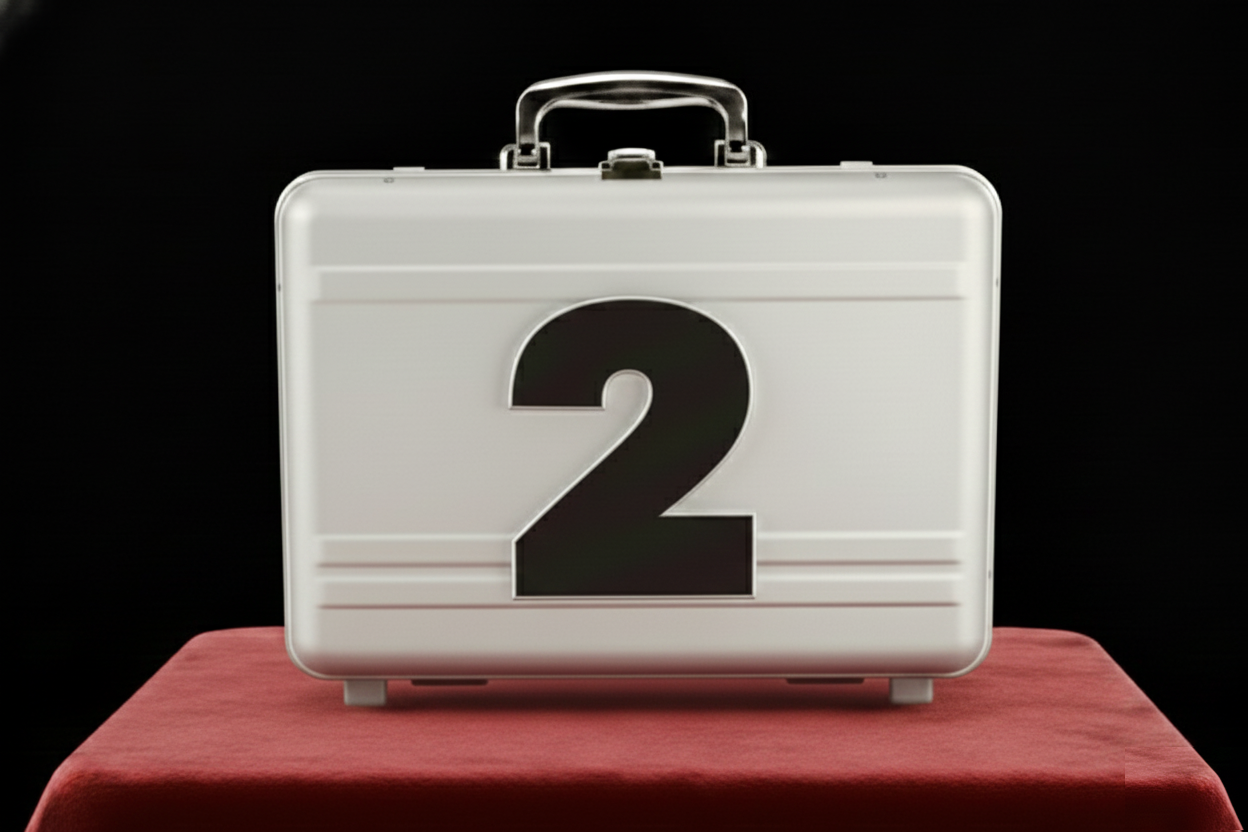
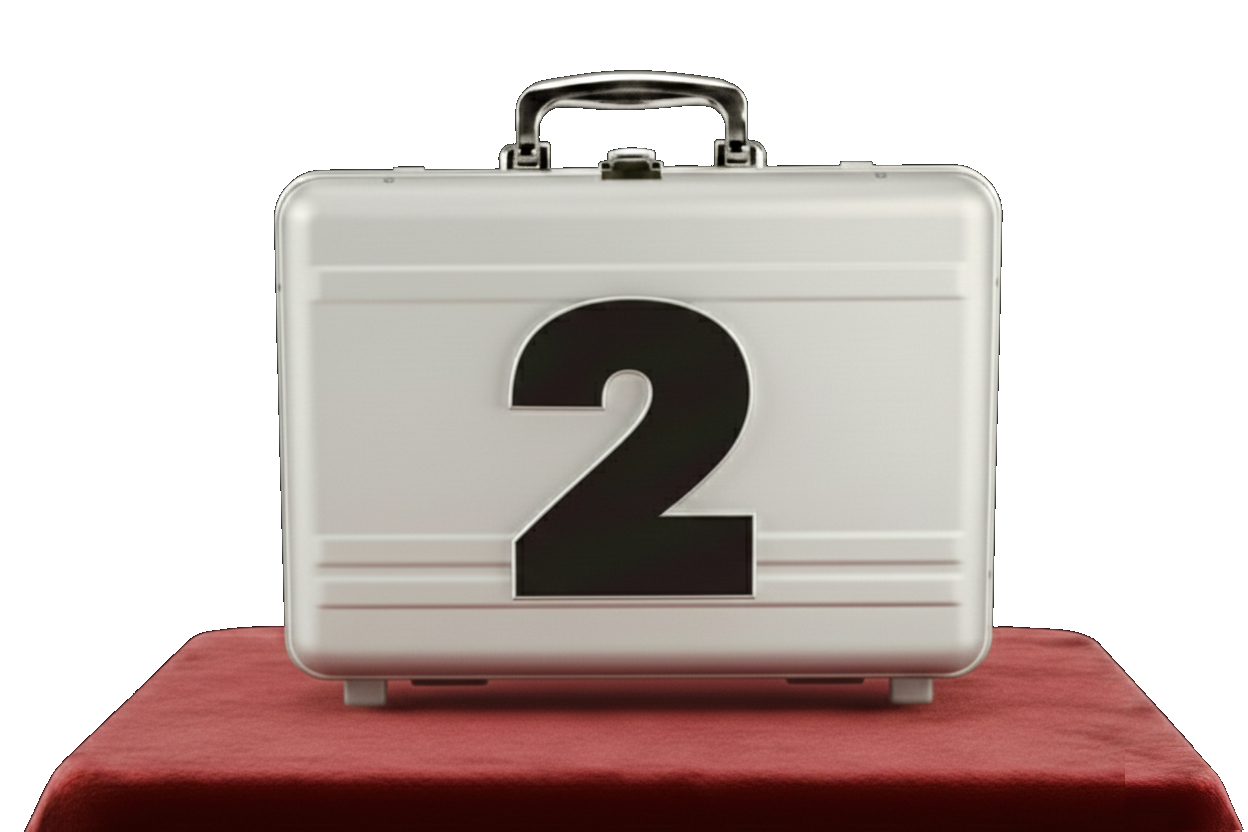
Update briefcase images and add player case display panel

diff --git a/src/GameScreen.tsx b/src/GameScreen.tsx
@@ -3,7 +3,6 @@ import './GameScreen.css'
 
 interface GameScreenProps {
   playerName: string
-  onReset: () => void
 }
 
 const LEFT_COLUMN_VALUES = [0.05, 1, 5, 10, 20, 50, 100, 125, 150, 200, 250]
@@ -21,7 +20,7 @@ interface Briefcase {
 
 const CASES_TO_OPEN_PER_ROUND = [6, 5, 4, 3, 2, 1]
 
-function GameScreen({ playerName, onReset }: GameScreenProps) {
+function GameScreen({ playerName }: GameScreenProps) {
   const [briefcases, setBriefcases] = useState<Briefcase[]>([])
   const [gamePhase, setGamePhase] = useState<GamePhase>('SELECT_YOUR_CASE')
   const [currentRound, setCurrentRound] = useState(0)
@@ -62,7 +61,7 @@ function GameScreen({ playerName, onReset }: GameScreenProps) {
 
     if (gamePhase === 'SELECT_YOUR_CASE') {
       setBriefcases(briefcases.map(c => 
-        c.id === caseId ? { ...c, isPlayerCase: true } : c
+        c.id === caseId ? { ...c, isPlayerCase: true, isOpened: true } : c
       ))
       setGamePhase('OPEN_CASES')
     } else if (gamePhase === 'OPEN_CASES') {
@@ -99,7 +98,7 @@ function GameScreen({ playerName, onReset }: GameScreenProps) {
 
   const getMessage = () => {
     if (gamePhase === 'SELECT_YOUR_CASE') {
-      return 'Select your winning suitcase'
+      return 'Which briefcase will you choose?'
     } else if (gamePhase === 'OPEN_CASES') {
       const remaining = CASES_TO_OPEN_PER_ROUND[currentRound] - casesOpenedThisRound
       return `Open ${remaining} more case${remaining !== 1 ? 's' : ''}`
@@ -116,7 +115,6 @@ function GameScreen({ playerName, onReset }: GameScreenProps) {
     <div className="game-screen">
       <div className="left-panel">
         <div className="player-info">
-          <div className="player-label">Player</div>
           <div className="player-name">{playerName}</div>
         </div>
         
@@ -155,10 +153,19 @@ function GameScreen({ playerName, onReset }: GameScreenProps) {
             </div>
           </div>
         </div>
-        
-        <button className="reset-button-small" onClick={onReset}>
-          Reset
-        </button>
+
+        {briefcases.find(b => b.isPlayerCase) && (
+          <div className="player-case-display">
+            <div className="player-case-label">Your Briefcase</div>
+            <div className="player-case-container">
+              <img 
+                src={`/briefcases/briefcase${String(briefcases.find(b => b.isPlayerCase)?.id).padStart(2, '0')}.png`}
+                alt="Your Case"
+                className="player-case-image"
+              />
+            </div>
+          </div>
+        )}
       </div>
 
       <div className="right-panel">

diff --git a/src/GameScreen.css b/src/GameScreen.css
@@ -101,31 +101,34 @@
   margin-left: auto;
 }
 
-.reset-button-small {
-  margin-top: 10px;
-  padding: 6px 16px;
-  font-size: 12px;
+.player-case-display {
+  margin-top: 15px;
+  padding: 15px;
+  background: linear-gradient(135deg, #1a1a2e 0%, #16213e 100%);
+  border: 2px solid #d4af37;
+  border-radius: 8px;
+  text-align: center;
+}
+
+.player-case-label {
+  font-size: 16px;
+  color: #d4af37;
   font-weight: bold;
-  color: #fff;
-  background: linear-gradient(135deg, #ff4444 0%, #cc0000 100%);
-  border: 1px solid #fff;
-  border-radius: 4px;
-  cursor: pointer;
   text-transform: uppercase;
-  letter-spacing: 0.5px;
-  box-shadow: 0 2px 4px rgba(0, 0, 0, 0.5);
-  transition: transform 0.2s, box-shadow 0.2s;
-  align-self: flex-start;
+  letter-spacing: 1px;
+  margin-bottom: 10px;
 }
 
-.reset-button-small:hover {
-  transform: translateY(-1px);
-  box-shadow: 0 3px 6px rgba(0, 0, 0, 0.7);
+.player-case-container {
+  display: flex;
+  justify-content: center;
+  align-items: center;
 }
 
-.reset-button-small:active {
-  transform: translateY(0);
-  box-shadow: 0 1px 2px rgba(0, 0, 0, 0.5);
+.player-case-image {
+  width: 120px;
+  height: auto;
+  object-fit: contain;
 }
 
 .right-panel {
@@ -220,13 +223,8 @@
   pointer-events: none;
 }
 
-.briefcase.player-case {
-  border: 3px solid #d4af37;
-  border-radius: 8px;
-  box-shadow: 0 0 20px rgba(212, 175, 55, 0.6);
-}
 
-.briefcase:not(.empty):not(.opened):not(.player-case):hover {
+.briefcase:not(.empty):not(.opened):hover {
   transform: scale(1.1);
 }
 
